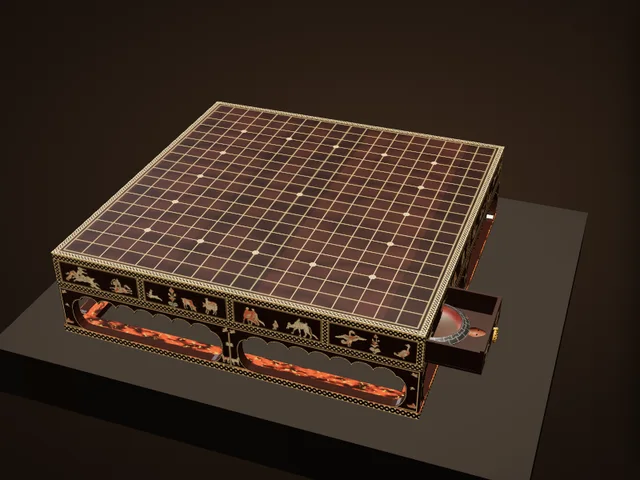
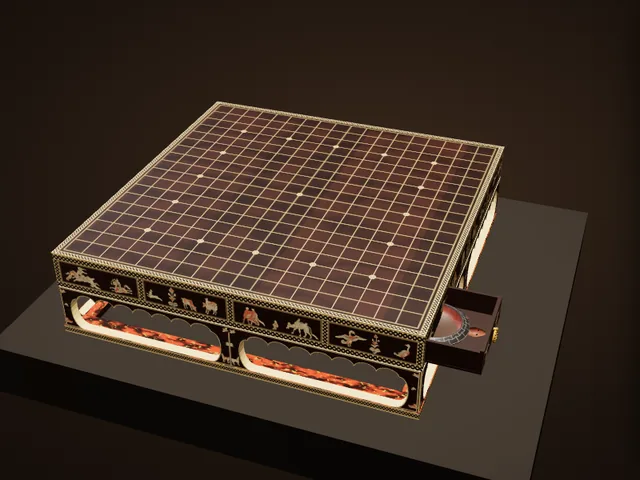
博物館：木画紫檀棊局の床脚を正面写真で測り直し（隅の脚を細く、切り口を淡い材に、床枠の帯を細かく）
Claude-Session: https://claude.ai/code/session_01EiWRAZTxRF5M5nk5vdR2jJ

Changed region(s): [[0.0938, 0.5938, 0.6875, 0.875], [0.7188, 0.375, 0.7812, 0.5938], [0.2812, 0.6562, 0.375, 0.6875]]

diff --git a/atlas/museum/ex/shosoin.js b/atlas/museum/ex/shosoin.js
@@ -155,14 +155,14 @@
       const edgeM = K.mat({ map: edgeT, color: '#ffffff', roughness: .45, clearcoat: .35 });
       add(new TT.BoxGeometry(S + .1, TOP, S + .1), [edgeM, edgeM, faceMat, shitan, edgeM, edgeM], 0, H - TOP / 2, 0);
       /* ---------- the 床脚: corner legs, a post in the middle of each side, openings with cusped tops, the floor rail ---------- */
-      const LEG = 1.45, POST = 1.9, OH = BASE - RAIL - .05;   // leg / post width; the openings' height (the cusps hang right under the body)
+      const LEG = 1.0, POST = 1.9, OH = BASE - RAIL - .05;   // leg / post width; the openings' height (the cusps hang right under the body)
       const skirt = new TT.Shape(); skirt.moveTo(-S / 2, 0); skirt.lineTo(S / 2, 0); skirt.lineTo(S / 2, BASE - RAIL); skirt.lineTo(-S / 2, BASE - RAIL); skirt.closePath();
       const open = (x0, x1) => { const p = new TT.Path(), top = OH, E = 1.55, B = 1.9, nC = 7, xa0 = x0 + E, xa1 = x1 - E, cw = (xa1 - xa0) / nC, dip = 1.45, at = .5;
         // (the Shōsōin's detail photographs CO0000000428–430) each end a full round bulge — the leg narrowest two-thirds of the way up and
         // spreading to its foot — and across the top seven arches, their points hanging down between them
-        p.moveTo(x0 + B, 0); p.lineTo(x1 - B, 0); p.bezierCurveTo(x1 + .35, .15, x1 + .45, top - 1.3, xa1, top - dip);
+        p.moveTo(x0 + B, 0); p.lineTo(x1 - B, 0); p.bezierCurveTo(x1 + .12, .15, x1 + .1, top - 1.3, xa1, top - dip);
         for (let i = nC; i > 0; i--) { const xa = xa0 + i * cw, xb = xa - cw; p.bezierCurveTo(xa - cw * .1, top - at + .15, xb + cw * .1, top - at + .15, xb, top - dip); }
-        p.bezierCurveTo(x0 - .45, top - 1.3, x0 - .35, .15, x0 + B, 0); return p; };
+        p.bezierCurveTo(x0 - .1, top - 1.3, x0 - .12, .15, x0 + B, 0); return p; };   // (2026-11-22, measured on the frontal photograph of side A: the corner leg is about 1 cm wide at its narrowest — it was 1.45 and looked heavy)
       const half = (S - 2 * LEG - POST) / 2;
       skirt.holes.push(open(-S / 2 + LEG, -S / 2 + LEG + half), open(S / 2 - LEG - half, S / 2 - LEG));
       const skG = new TT.ExtrudeGeometry(skirt, { depth: 1.2, bevelEnabled: true, bevelThickness: .06, bevelSize: .06, bevelSegments: 1, curveSegments: 10 });
@@ -173,13 +173,14 @@
         // each leg and the post: a bird in flight at the top, hills in the middle, a deer at the foot; an ivory line down the post (detail photographs)
         g.fillStyle = C.iv; g.fillRect(S / 2 * s - s * .05, s * .9, s * .1, h - s * 1.0);
         if (legC) { const Y = f => h * (1 - f);   // (placed as on the photographs: a bird under the body, a hill at mid-height, a deer at the foot — on each leg, and either side of the post's ivory line)
-          [[LEG * .52, 5, 6, 7, false], [S - LEG * .52, 5, 6, 7, true]].forEach(([x, b, hl, d, fl]) => { sprite(g, b, x * s, Y(.9), s * .4, fl); sprite(g, hl, x * s, Y(.56), s * .4, fl); sprite(g, d, x * s, Y(.14), s * .34, fl); });
+          [[LEG * .6, 5, 6, 7, false], [S - LEG * .6, 5, 6, 7, true]].forEach(([x, b, hl, d, fl]) => { sprite(g, b, x * s, Y(.9), s * .4, fl); sprite(g, hl, x * s, Y(.56), s * .4, fl); sprite(g, d, x * s, Y(.14), s * .34, fl); });
           const px = POST * .25; sprite(g, 0, (S / 2 - px) * s, Y(.9), s * .38, false); sprite(g, 1, (S / 2 + px) * s, Y(.9), s * .38, false); sprite(g, 2, (S / 2 - px * .8) * s, Y(.56), s * .4, false); sprite(g, 2, (S / 2 + px * .8) * s, Y(.56), s * .4, true);
           sprite(g, 3, (S / 2 - px * 1.5) * s, Y(.17), s * .5, false); sprite(g, 4, (S / 2 + px * 1.5) * s, Y(.17), s * .5, false); }
         else [[LEG * .62, 1], [S / 2 - POST * .28, 1], [S / 2 + POST * .28, -1], [S - LEG * .62, -1]].forEach(([x, d], i) => { [['bird', .9, .022, C.box], ['hill', .56, .02, C.grn], ['deer', .13, .022, i % 2 ? C.grn : C.red]].forEach(([kd, fy, k, col]) => { g.save(); g.translate(x * s, h * (1 - fy)); g.scale(d, 1); sil(g, kd, 0, 0, s * k, col); g.restore(); }); }); });
       legT.repeat.set(1 / S, 1 / (BASE - RAIL)); legT.offset.set(.5, 0);
       const legM = K.mat({ map: legT, color: '#ffffff', roughness: .5, clearcoat: .35, clearcoatRoughness: .35 });
-      for (let i = 0; i < 4; i++) { const m = new TT.Mesh(skG, [legM, shitan]), a = i * Math.PI / 2; m.position.set(Math.sin(a) * (S / 2 - 1.2), RAIL, Math.cos(a) * (S / 2 - 1.2)); m.rotation.y = a; m.scale.x = .995; G.add(m); }   // (each panel a hair short: its end face lay in the same plane as the next panel's front and the two fought at the corner legs — a flicker)
+      const cutM = K.mat({ color: '#cdb27a', roughness: .6 });   // (the openings' cut faces are lined with a pale strip: on the frontal photograph the far legs show as pale posts through the openings)
+      for (let i = 0; i < 4; i++) { const m = new TT.Mesh(skG, [legM, cutM]), a = i * Math.PI / 2; m.position.set(Math.sin(a) * (S / 2 - 1.2), RAIL, Math.cos(a) * (S / 2 - 1.2)); m.rotation.y = a; m.scale.x = .995; G.add(m); }   // (each panel a hair short: its end face lay in the same plane as the next panel's front and the two fought at the corner legs — a flicker)
       add(new TT.BoxGeometry(S - 2.4, .5, S - 2.4), shitan, 0, BASE - .25, 0);   // the floor of the body
       // the floor rail: horn over red (華角), dark flowers; its outer faces with the lozenge band
       // (the floor frame's top: painting under a translucent sheet — a deep red ground clouded with black and specks of green and gold; the photographs)
@@ -187,7 +188,7 @@
         for (let y = 0; y < h; y++) for (let x = 0; x < w; x++) { const a = n(x / 26, y / 18, 3), b = n(x / 7 + 9, y / 7, 2), k = Math.max(0, Math.min(1, (a - .42) * 4)), gsp = b > .78 ? 1 : 0, i = (y * w + x) * 4;
           d[i] = gsp ? 150 : 150 - k * 118 + b * 20; d[i + 1] = gsp ? 130 : 52 - k * 36 + b * 10; d[i + 2] = gsp ? 60 : 30 - k * 18; d[i + 3] = 255; } g.putImageData(img, 0, 0); });
       const kak = K.mat({ map: kakT, color: '#ffffff', roughness: .28, clearcoat: .85, clearcoatRoughness: .18 });
-      const railSide = K.tex(2048, Math.round(2048 * RAIL / S), (g, w, h) => { g.drawImage(shT.image, 0, 0, w, h); chain(g, 0, 0, w, h, false); });
+      const railSide = K.tex(2048, Math.round(2048 * RAIL / S), (g, w, h) => { g.drawImage(shT.image, 0, 0, w, h); g.fillStyle = '#d9c184'; g.fillRect(0, 0, w, h * .16); g.fillRect(0, h * .84, w, h * .16); chain(g, 0, h * .2, w, h * .6, false); });   // (the frontal photograph: a fine band of lozenges between two pale lines — the full-height band read too coarse)
       const rsM = K.mat({ map: railSide, color: '#ffffff', roughness: .45, clearcoat: .35 });
       const RW = 3.0;
       const rsEnd = rsM.clone(); rsEnd.map = railSide.clone(); rsEnd.map.repeat.set(RW / S, 1); rsEnd.map.needsUpdate = true;   // the frame's short end faces: the same band at the same scale (it was the whole length squeezed into 3 cm)

diff --git a/atlas/museum.js b/atlas/museum.js
@@ -32,7 +32,7 @@
   const ROOMS = [
     { id: 'map', ready: () => !!window.AtlasMap, render: (el, c) => AtlasMap.render(el, c) },
     { id: 'tree', src: ['museum/tree.js?v=3'], ready: () => !!window.AtlasTree, render: (el, c) => AtlasTree.render(el, c) },
-    { id: 'gallery', src: ['museum/gallery.js?v=96'], ready: () => !!window.AtlasGallery, render: (el, c) => AtlasGallery.render(el, c) },
+    { id: 'gallery', src: ['museum/gallery.js?v=97'], ready: () => !!window.AtlasGallery, render: (el, c) => AtlasGallery.render(el, c) },
   ];
   const KEY = 'atlas-museum-room';
   const esc = s => String(s == null ? '' : s).replace(/[&<>"]/g, c => ({ '&': '&amp;', '<': '&lt;', '>': '&gt;', '"': '&quot;' }[c]));

diff --git a/atlas/index.html b/atlas/index.html
@@ -2559,7 +2559,7 @@ window.AtlasRgdTimer = function (btn, ms, alive) {
 <link rel="stylesheet" href="worldmap.css?v=19">
 <link rel="stylesheet" href="museum.css?v=10">
 <script src="worldmap.js?v=40"></script>
-<script src="museum.js?v=97"></script>
+<script src="museum.js?v=98"></script>
 <script src="npc/npc.js?v=46"></script>
 <script src="avtalk.js?v=4"></script>
 <script>/* Page states as classes on <html> (2026-11-21) — html.cov-on: the 3D view / Historia / a sheet / a level sheet is open;

diff --git a/atlas/museum/gallery.js b/atlas/museum/gallery.js
@@ -10,7 +10,7 @@
    (a turn, a zoom, the slow turntable) and never while the window is in the background. */
 (function () {
   'use strict';
-  const V = 96;
+  const V = 97;
   /* ---------- the pieces: id, the game it belongs to, its scale (cm per model unit), the camera's start, the details ----------
      lock: { game, ach } → open after that many achievements of the game. src: the files the piece needs (besides ex/<id>.js) */
   const EX = [

diff --git a/claude/museum-spec.md b/claude/museum-spec.md
@@ -120,6 +120,7 @@
 - **案内役のアトラモ「ミュゼフク」**（`musowl`、`atlas/avatars/sp-museum.js`、画像 `images/atlas/av/musowl-<0..3>.webp`、art.js の EARN）：N＝所蔵品を1つ見る／R＝特別展示以外をすべて見る／SR＝特別展示を1つ公開／SSR＝特別展示もふくめすべて見る。見たものは `localStorage 'atlas-museum-seen'`。ケースを開いて3Dができたときに判定し、新しくもらえた分をケースの上にカードで出す（app.js の `ctx.grant`）。部屋の上に4段階の絵と n/4 の帯。
 - 予定：収蔵品の追加（ササン朝・アフラシアブのチェス駒、アステカのパトリ関連など）。
   - セネトのマスの印（2026-11-22、ユーザー提供の精巧なレプリカの写真に合わせる）：15＝両腕（カー）がアンクを抱える形（上が列の始まり側を向いて横倒し）、26＝ネフェル3つ（丸い方が下の正立。横倒しにしたのは誤りでユーザー指摘で修正）、27＝水の波5段、28＝鳥3羽、29＝ひざまずいて両腕を上げる人2人（26〜29は長辺に座った人から見て正立）。線は細い2本線の輪郭彫りで、マスの約8割の大きさ、濃い茶。盤面テクスチャは2048pxに。印のあるマスには駒を置かない。
+  - 木画紫檀棊局の床脚（2026-11-22、A面の正面写真で測り直し）：隅の脚は最も細い所で約1cm（1.45cmは太すぎた）。開口部の切り口は淡い色の材（写真で奥の脚が淡い柱に見える）。床枠の外面は、淡い線2本の間に細かい菱形の帯。
 
 ## 所蔵品で遊ぶ（計画、2026-11-22 ユーザー決定・未実装）
 
